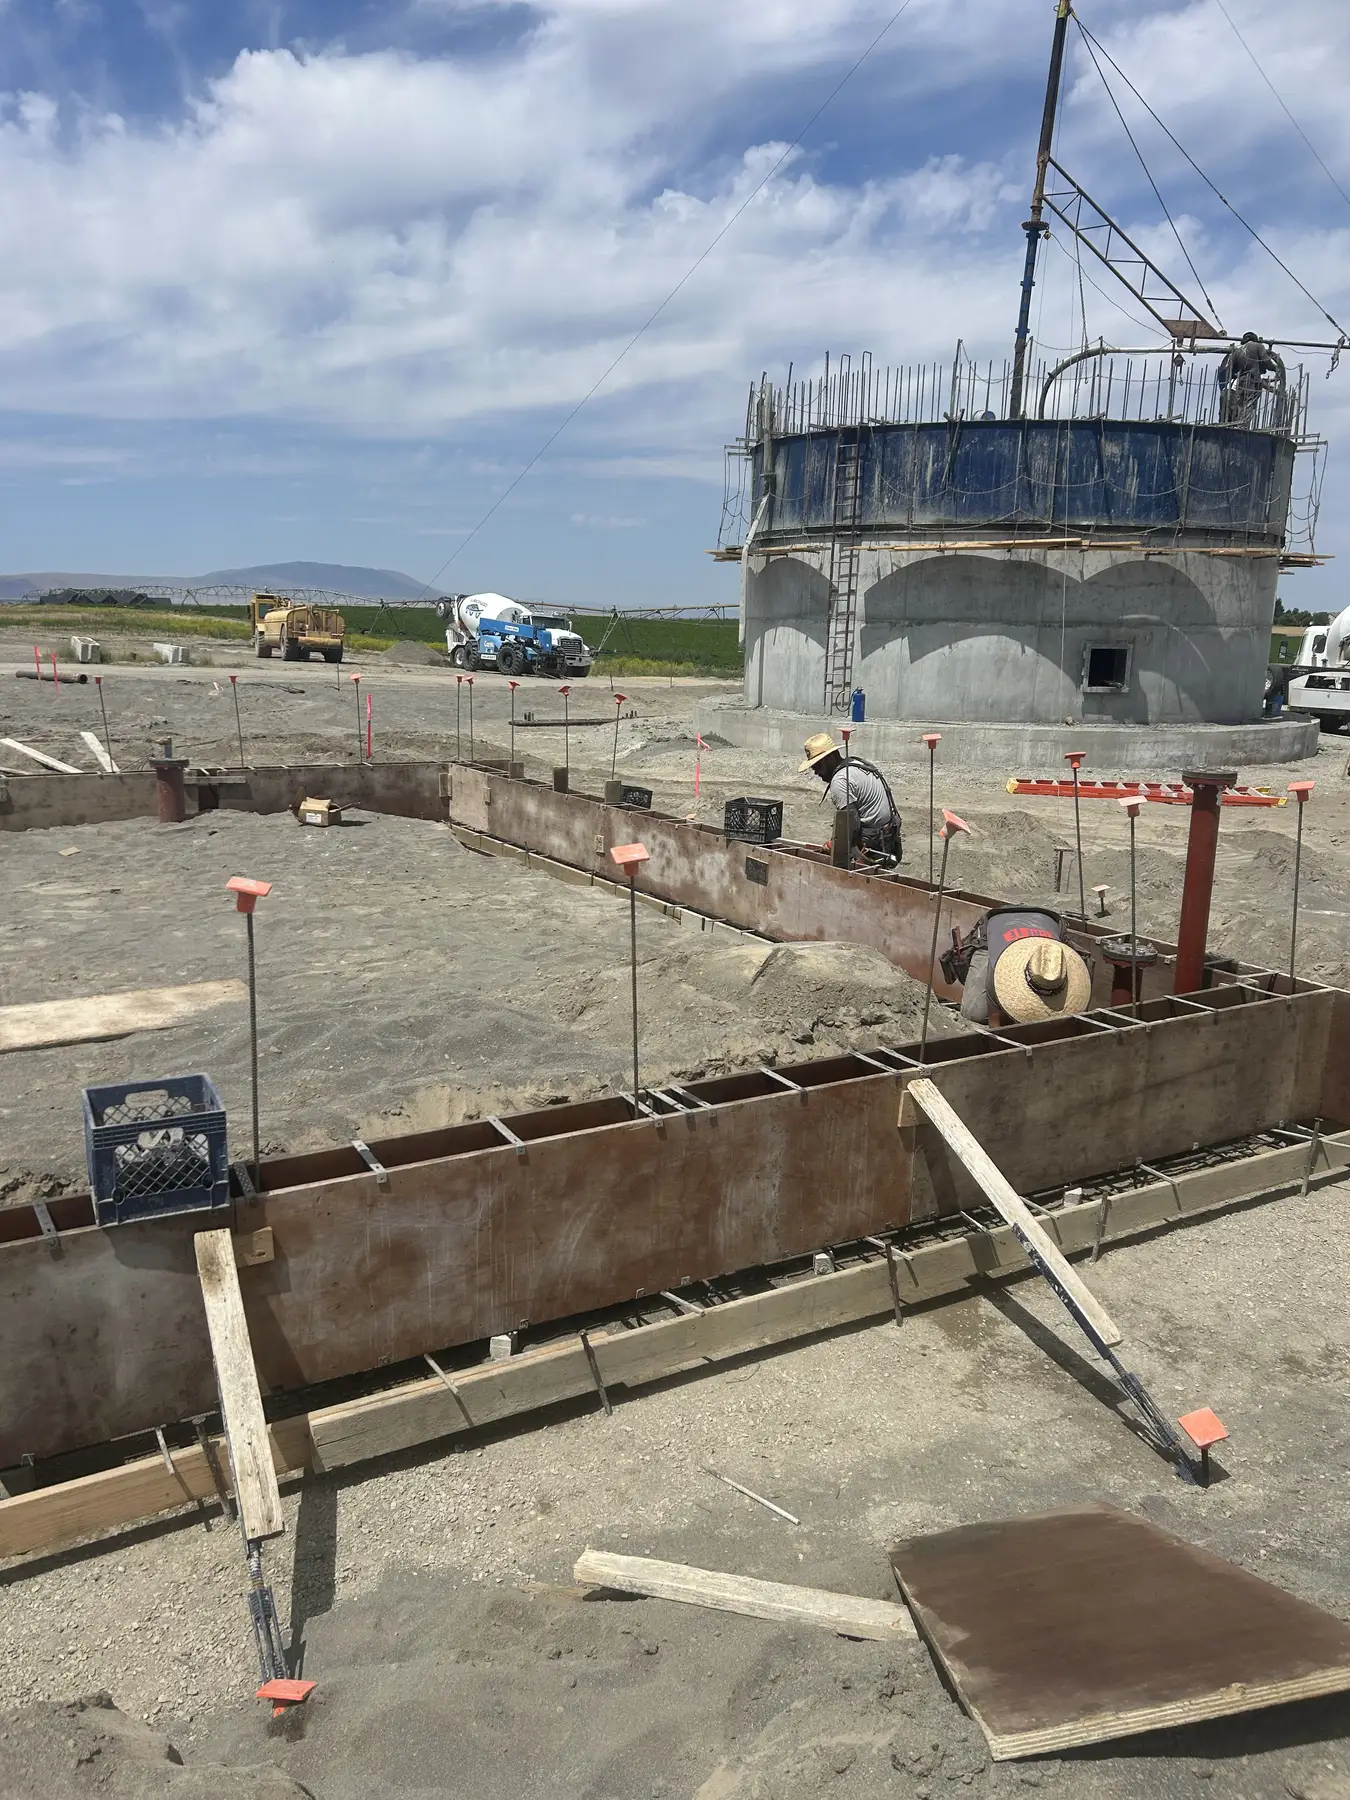
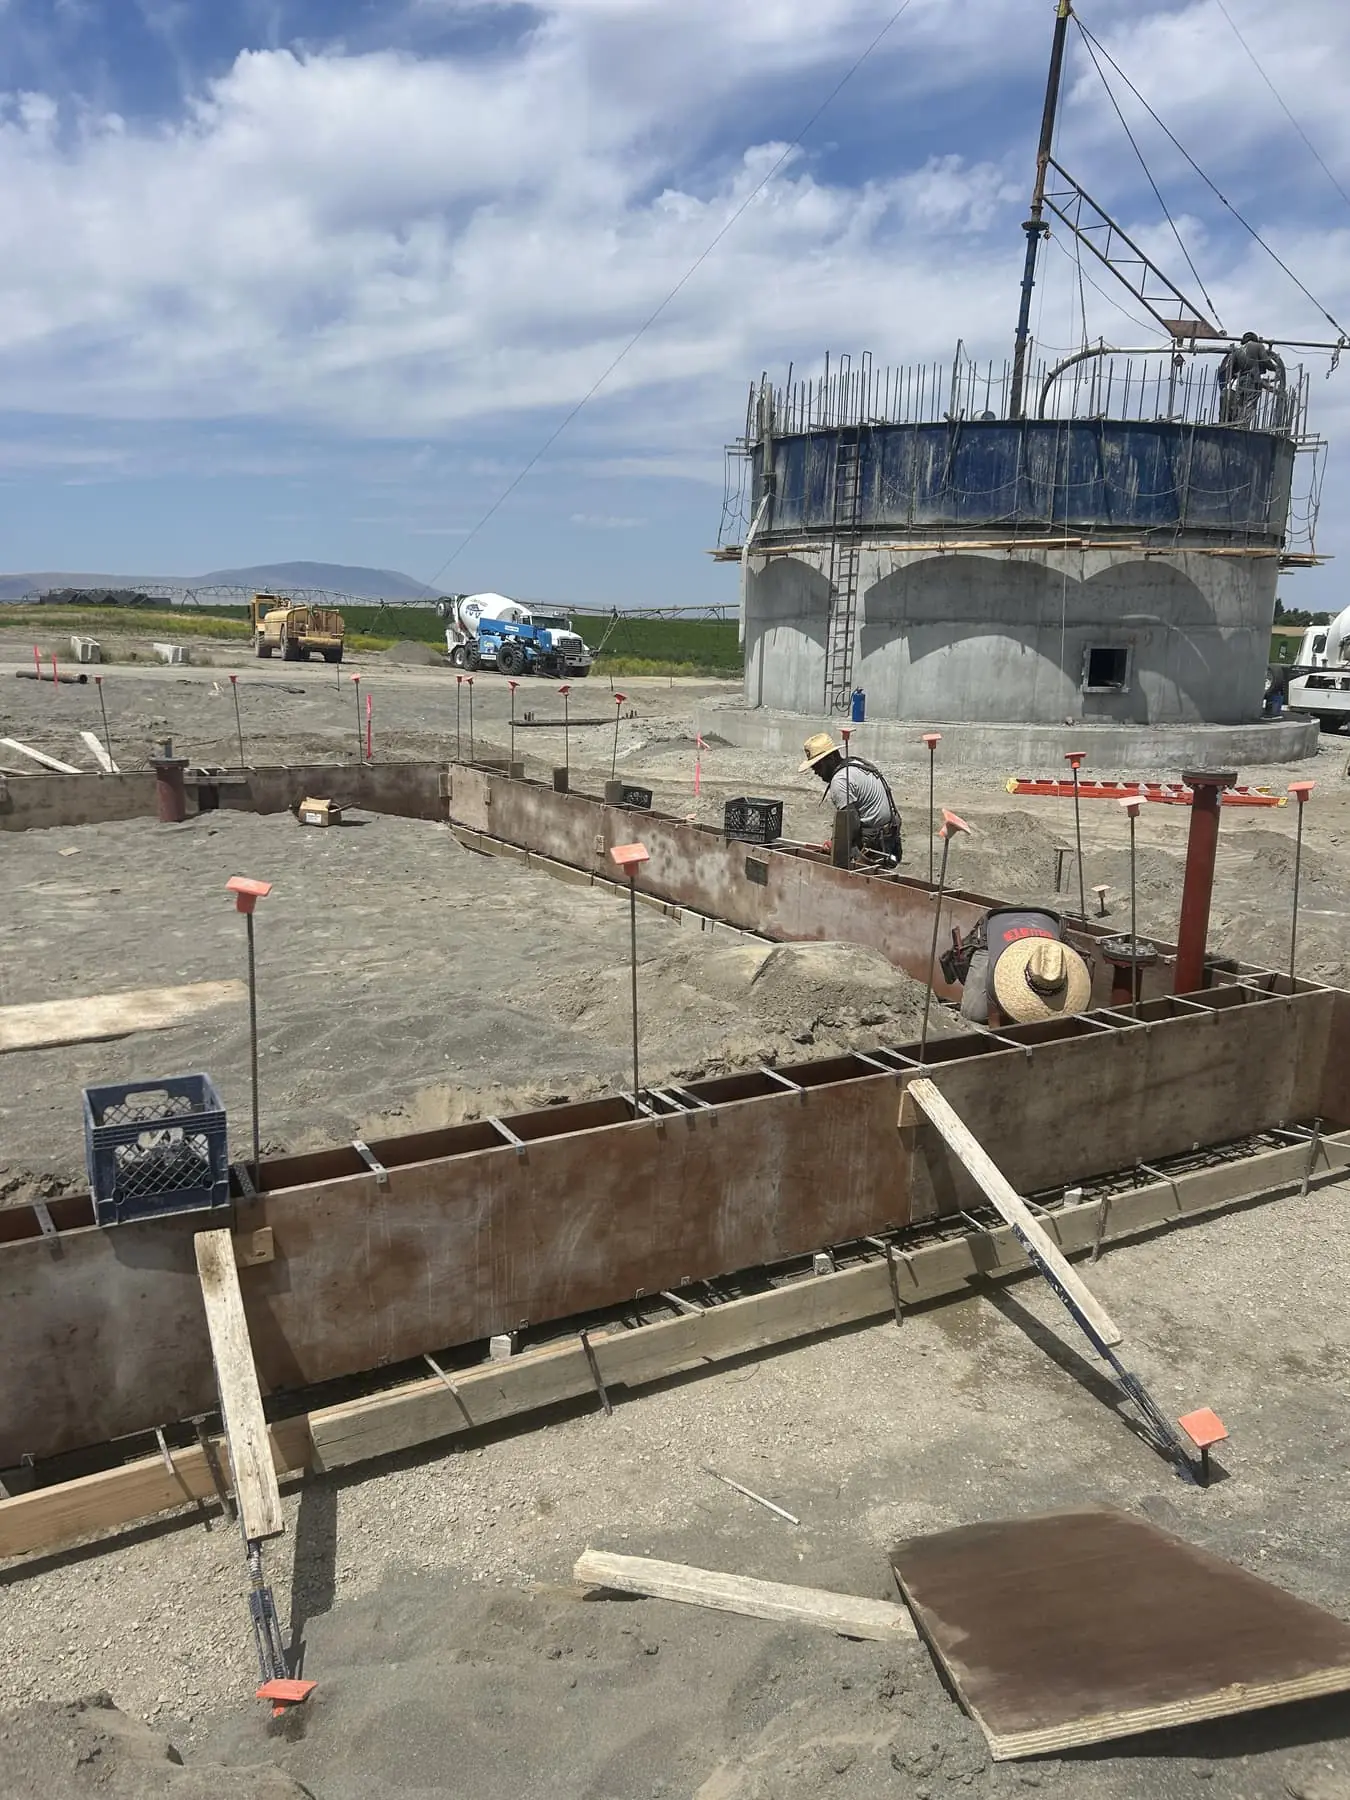
fix: address Codex review (WebP quality parity, img dimensions, schema type match)
1. WebP files weren't consistently beating their JPEG siblings (3 of 4 lost or
   tied) — my original loop searched each format independently down to a
   <300KB ceiling without ever comparing them, so WebP sometimes landed at an
   effectively higher quality than JPEG. Re-encoded with effort:6 (max
   compression effort) and iterated quality until WebP genuinely beats the
   JPEG sibling's actual byte size, not just an arbitrary threshold. All 4 now
   win by 30-40KB, and at HIGHER quality (q75-80) than the previous attempt.
   Visually verified one at full res — no artifacts, plaque text legible.

2. Added explicit width/height to the 4 new <img> tags, matching the file's
   own existing convention (nav/footer badges already declare them). Codex
   correctly noted this isn't an actual CLS risk here (the .cs-ph container
   already sizes via a padding-bottom aspect-ratio box), but it was
   inconsistent with the rest of the file.

3. Article schema's author/publisher used "@type": "Organization" while the
   canonical entity at that same @id is typed "GeneralContractor" on the
   homepage. Same @id, two different declared types across pages. Matched to
   GeneralContractor (still schema.org-valid for Article's author/publisher
   requirement via the Organization inheritance chain).

Refs FOR-138

Changed region(s): [[0.6222, 0.4356, 0.6533, 0.4667], [0.3733, 0.3422, 0.4044, 0.3733]]

diff --git a/water-treatment-facility.html b/water-treatment-facility.html
@@ -495,7 +495,7 @@ footer {
       <div class="cs-ph">
         <picture>
              <source srcset="assets/IMG_1420_full.webp" type="image/webp">
-             <img src="assets/IMG_1420_full.jpg"
+             <img src="assets/IMG_1420_full.jpg" width="1350" height="1800"
                   alt="Water treatment concrete tank under construction — scaffolding, rebar formwork, and cement truck on site"
              loading="lazy">
         </picture>
@@ -507,7 +507,7 @@ footer {
       <div class="cs-ph">
         <picture>
              <source srcset="assets/IMG_1421_full.webp" type="image/webp">
-             <img src="assets/IMG_1421_full.jpg"
+             <img src="assets/IMG_1421_full.jpg" width="1350" height="1800"
                   alt="Concrete tank construction with rebar forming in foreground and cement mixer in background"
              loading="lazy">
         </picture>
@@ -519,7 +519,7 @@ footer {
       <div class="cs-ph">
         <picture>
              <source srcset="assets/IMG_1755_full.webp" type="image/webp">
-             <img src="assets/IMG_1755_full.jpg"
+             <img src="assets/IMG_1755_full.jpg" width="1800" height="1350"
                   alt="Completed concrete water treatment storage tank with metal access ladder against blue sky"
              loading="lazy">
         </picture>
@@ -531,7 +531,7 @@ footer {
       <div class="cs-ph">
         <picture>
              <source srcset="assets/IMG_1754_full.webp" type="image/webp">
-             <img src="assets/IMG_1754_full.jpg"
+             <img src="assets/IMG_1754_full.jpg" width="1800" height="1350"
                   alt="Completed water treatment facility — CMU pump house and concrete tank with fencing"
              loading="lazy">
         </picture>

diff --git a/resources/commercial-construction-cost-tri-cities/index.html b/resources/commercial-construction-cost-tri-cities/index.html
@@ -25,8 +25,8 @@
   "datePublished": "2026-06-24",
   "dateModified": "2026-06-24",
   "mainEntityOfPage": "https://www.pelicangeneralconstruction.com/resources/commercial-construction-cost-tri-cities",
-  "author": {"@type": "Organization", "@id": "https://www.pelicangeneralconstruction.com/#organization", "name": "Pelican General Construction"},
-  "publisher": {"@type": "Organization", "@id": "https://www.pelicangeneralconstruction.com/#organization", "name": "Pelican General Construction", "logo": {"@type": "ImageObject", "url": "https://www.pelicangeneralconstruction.com/assets/pelican-badge.png"}}
+  "author": {"@type": "GeneralContractor", "@id": "https://www.pelicangeneralconstruction.com/#organization", "name": "Pelican General Construction"},
+  "publisher": {"@type": "GeneralContractor", "@id": "https://www.pelicangeneralconstruction.com/#organization", "name": "Pelican General Construction", "logo": {"@type": "ImageObject", "url": "https://www.pelicangeneralconstruction.com/assets/pelican-badge.png"}}
 }
 </script>
 <script type="application/ld+json">
